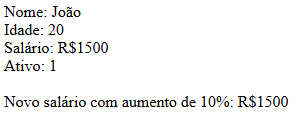
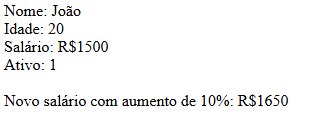
Alterações realizadas na Aula 01

diff --git a/aula01/variaveis.php b/aula01/variaveis.php
@@ -10,5 +10,5 @@
     echo "Ativo: $ativo <br>";
 
     $novoSalario = $salario * 1.10;
-    echo "<br>Novo salário com aumento de 10%: R$$salario";
+    echo "<br>Novo salário com aumento de 10%: R$$novoSalario";
 ?>
